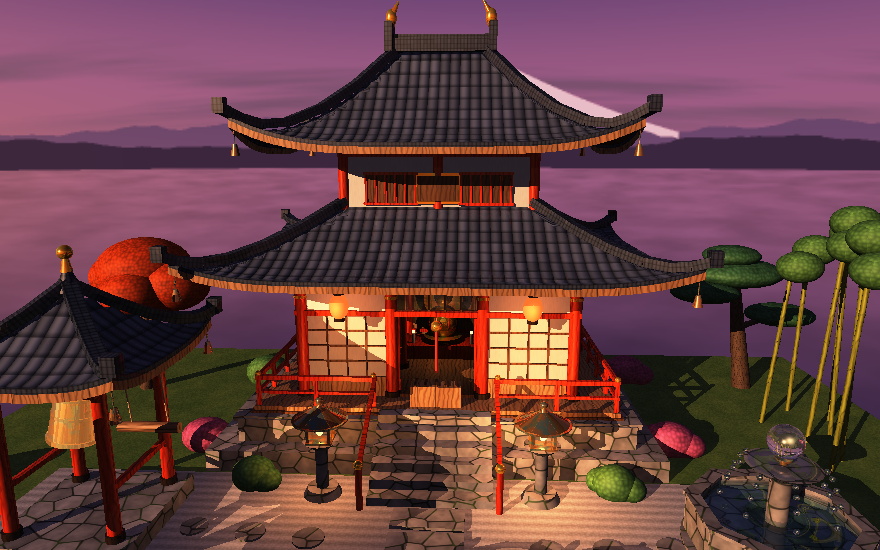
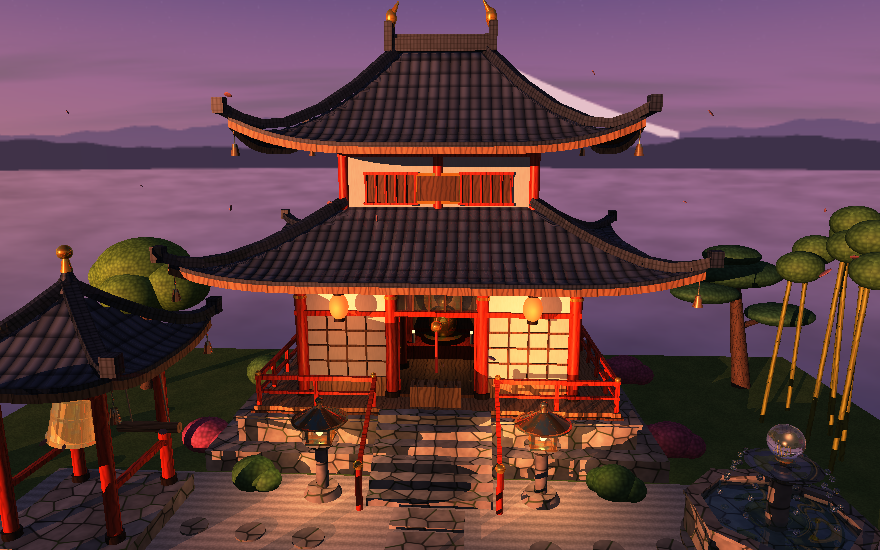
README y capturas de estaciones y ciclo de dia y noche

Changed region(s): [[0.0, 0.3709, 1.0, 1.0], [0.2148, 0.1545, 0.7057, 0.4018], [0.7057, 0.2164, 0.7364, 0.2473]]

diff --git a/README.md b/README.md
@@ -1,7 +1,8 @@
 # Diorama interactivo: templo japonés con raytracing
 
-Diorama 3D de un jardín japonés al atardecer con un templo de dos niveles
-como punto focal, renderizado **con un raytracer propio escrito en Rust**.
+Diorama 3D de un jardín japonés con un templo de dos niveles como punto
+focal, con **ciclo de día y noche** y **las cuatro estaciones**,
+renderizado **con un raytracer propio escrito en Rust**.
 [raylib](https://www.raylib.com/) solo se usa para abrir la ventana, leer
 el teclado/mouse y leer/guardar imágenes PNG: la intersección de rayos,
 materiales, texturas, luces, sombras, reflexión, refracción y skybox
@@ -21,8 +22,9 @@ están implementados a mano.
 cargo run --release
 ```
 
-La primera vez se generan las texturas (`assets/textures`) y el skybox
-(`assets/skybox`) si no existen (tarda unos segundos). Para regenerarlos:
+La primera vez se generan las texturas (`assets/textures`) y los 4
+skyboxes (`assets/skybox`) si no existen (tarda unos 10 segundos). Para
+regenerarlos:
 
 ```
 cargo run --release --bin generar_texturas
@@ -31,11 +33,13 @@ cargo run --release --bin generar_texturas
 También hay un renderizador sin ventana, útil para sacar imágenes:
 
 ```
-cargo run --release --bin captura -- <vista 1-5> <etapa 0-4> <ancho> <alto> <archivo.png>
+cargo run --release --bin captura -- <vista 1-5> <etapa 0-4> <ancho> <alto> <archivo.png> [estacion 0-3] [hora]
 ```
 
-Y pruebas de la matemática (Snell, reflexión interna total, rotaciones) y
-de la progresión de interacciones:
+(`estacion`: 0 primavera, 1 verano, 2 otoño, 3 invierno; `hora` de 0 a 24.)
+
+Y pruebas de la matemática (Snell, reflexión interna total, rotaciones),
+de la progresión de interacciones y del recorrido del sol:
 
 ```
 cargo test --release
@@ -61,34 +65,69 @@ cargo test --release
 | Interactuar con el objeto bajo el mouse | clic izquierdo (sin arrastrar) |
 | Interactuar con el objeto en el centro (mira) | `E` |
 | Campana / linternas / fuente / puerta | `B` / `L` / `F` / `T` |
+| Cambiar de estación | `C` |
+| Pausar / reanudar el ciclo de día y noche | `N` |
+| Atrasar / adelantar la hora (mantener) | `,` / `.` |
 | Vistas predefinidas | `1` general, `2` templo, `3` estanque, `4` techo, `5` patio |
 | Reiniciar cámara | `R` |
 | Captura de pantalla (`captura.png`) | `P` |
 | Mostrar/ocultar ayuda | `H` |
 
-Al pasar el mouse sobre un objeto interactivo aparece su nombre (y si
-todavía está bloqueado).
+Al pasar el mouse sobre un objeto interactivo aparece su nombre.
 
-## Recorrido (progresión)
+## Interacciones
 
-Cada interacción se **desbloquea al completar la anterior**; una vez
-desbloqueada se puede usar libremente. El HUD muestra el objetivo actual.
-
-```
-Explorar el jardín → tocar la CAMPANA (B)
-  → encender las LINTERNAS (L)
-    → seguir el camino y activar la FUENTE (F)
-      → abrir la PUERTA del templo (T) y ver el altar
-```
+Todas las interacciones están disponibles desde el inicio y se pueden
+usar en cualquier orden y las veces que se quiera.
 
 | Interacción | Qué pasa |
 |---|---|
-| 🔔 Campana | El mazo de madera se acerca y golpea; la campana oscila alrededor de su punto de suspensión (oscilación amortiguada) y el bronce brilla y se apaga de a poco. |
-| 🏮 Linternas | Las 4 linternas de piedra encienden su llama (material emisivo, visible refractada a través del vidrio) y las 2 linternas de papel del alero se iluminan. Cada una agrega una luz puntual cálida que ilumina el entorno. |
-| ⛲ Fuente | El nivel del agua sube, aparecen ondas circulares animadas (perturbación de la normal) y chorros de gotas que caen del cuenco superior. Con más agua se ven mejor las monedas refractadas en el fondo. |
-| 🚪 Puerta | Las dos hojas giran sobre sus bisagras hacia adentro y dejan ver el altar dorado iluminado por velas. |
+| Campana | El mazo de madera se acerca y golpea; la campana oscila alrededor de su punto de suspensión (oscilación amortiguada) y el bronce brilla y se apaga de a poco. |
+| Linternas | Las 4 linternas de piedra encienden su llama (material emisivo, visible refractada a través del vidrio) y las 2 linternas de papel del alero se iluminan. Cada una agrega una luz puntual cálida que ilumina el entorno. |
+| Fuente | El nivel del agua sube, aparecen ondas circulares animadas (perturbación de la normal) y chorros de gotas que caen del cuenco superior. Con más agua se ven mejor las monedas refractadas en el fondo. |
+| Puerta | Las dos hojas giran sobre sus bisagras hacia adentro y dejan ver el altar dorado iluminado por velas. |
 
 ![Todo activo](capturas/06_todo_activo.png)
+
+## Estaciones y ciclo de día y noche
+
+![Las cuatro estaciones](capturas/07_estaciones.png)
+
+**Día y noche** (`src/ambiente.rs`). Con `N` el tiempo avanza (un día
+dura 2 minutos) y con `,` / `.` se mueve la hora a mano. El HUD muestra la
+estación y la hora.
+
+- El **sol** recorre un arco real: sale detrás del templo (del lado del
+  monte Fuji) a las 6:00, pasa por delante del templo al mediodía y se
+  pone hacia la entrada del jardín a las 18:00. La **luna** va del lado
+  opuesto.
+- La luz principal es el sol de día y la luna de noche, con su color
+  (blanco al mediodía, naranja al atardecer, azulado a la luz de luna) y
+  sus sombras.
+- Hay **4 skyboxes** (amanecer, día, atardecer y noche con estrellas y
+  vía láctea) que se mezclan según la hora. El sol y la luna no están
+  pintados en las imágenes: se dibujan al trazar, en su posición real,
+  así también se reflejan en el agua.
+- La luz ambiente y la exposición cambian con la hora; de noche lucen las
+  linternas, el interior del templo detrás del papel shoji y las
+  luciérnagas.
+
+**Estaciones.** Con `C` se pasa a la siguiente; la escena se reconstruye
+con la paleta de cada una:
+
+| Estación | Cambios |
+|---|---|
+| Primavera | sakura en flor, arces verde claro, azaleas, pétalos que caen y alfombra de pétalos |
+| Verano | follaje verde intenso, hortensias, pasto más verde, luciérnagas de noche |
+| Otoño | arces rojos y sakura anaranjado, pasto seco, hojarasca en el suelo y hojas que caen |
+| Invierno | nieve en techos, suelo, rocas y pinos; árboles sin hojas; estanque congelado (hielo que refleja y refracta); nieve que cae |
+
+El sol sube más en verano que en invierno. Las partículas (pétalos, hojas,
+copos, luciérnagas) se mueven mientras el tiempo avanza.
+
+![Noche de verano](capturas/08_noche_verano.png)
+
+![Estanque congelado](capturas/09_invierno_hielo.png)
 
 ## Técnicas de raytracing
 
@@ -100,7 +139,7 @@ Explorar el jardín → tocar la CAMPANA (B)
   tiene posición, rotación y escala propias; el rayo se lleva a su
   espacio local para intersectarlo.
 - **Iluminación**: ambiente de hemisferio + difusa (Lambert) + especular
-  (Blinn-Phong), sol direccional con **rayos de sombra** (los objetos
+  (Blinn-Phong), sol o luna como luz direccional con **rayos de sombra** (los objetos
   transparentes dejan pasar parte de la luz) y luces puntuales con radio
   de alcance.
 - **Reflexión**: rayo secundario en la dirección `r = d - 2(d·n)n`.
@@ -114,9 +153,10 @@ Explorar el jardín → tocar la CAMPANA (B)
   (techo).
 - **Relieve**: perturbación de la normal para las tejas y para las
   ondas del agua (estanque y fuente).
-- **Skybox**: cubemap de 6 imágenes (`assets/skybox`), atardecer con
-  sol, nubes, estrellas, montañas y el monte Fuji detrás del templo. La
-  dirección del sol del cielo es la misma que la de la luz principal.
+- **Skybox**: 4 cubemaps de 6 imágenes (`assets/skybox/<momento>`) con
+  nubes, estrellas, montañas y el monte Fuji detrás del templo, mezclados
+  según la hora, más el sol y la luna dibujados en su dirección real (la
+  misma que la de la luz principal).
 
 ### Materiales principales
 
@@ -132,8 +172,9 @@ Cada material tiene textura propia y parámetros propios (`src/material.rs`):
 
 Variantes de apoyo: laca bermellón y negra, madera oscura, oro, tejas
 (`roof_tiles.png`), yeso y papel shoji translúcido (`paper.png`), pasto,
-grava rastrillada, corteza, follaje (pino, arce, sakura, azalea), koi,
-llama emisiva.
+grava rastrillada, corteza, follaje (pino, arce, sakura, azalea,
+hortensia), koi, llama emisiva, luciérnaga emisiva y, en invierno,
+**nieve** (`snow.png`) y **hielo** (`ice.png`, transparencia 0.62, IOR 1.31).
 
 ![Estanque](capturas/03_estanque_reflejos.png)
 
@@ -190,13 +231,15 @@ puente dando profundidad. La vegetación queda en los bordes.
 - Render en paralelo por bloques de filas (`std::thread::scope`, sin
   crates extra).
 - **Resolución progresiva**: 320×200 mientras la cámara se mueve o hay
-  animaciones grandes, 512×320 mientras solo se anima el agua y 880×550
-  cuando todo está quieto (se dibuja una vez y se reutiliza).
+  animaciones grandes, 512×320 mientras solo se anima el agua o avanza el
+  ciclo de día y noche, y 880×550 cuando todo está quieto (se dibuja una
+  vez y se reutiliza).
 - La escena estática (~6500 primitivas, la mayoría triángulos del techo)
-  se arma una sola vez; solo se reconstruye la parte dinámica (~80
-  objetos).
+  se arma al arrancar y al cambiar de estación; en cada cambio de estado
+  solo se reconstruye la parte dinámica (~80 a 140 objetos con las
+  partículas).
 - En un procesador de 12 hilos lógicos: ~110–330 ms la imagen en alta,
-  y ~20–55 ms la previa (320×200).
+  y ~20–60 ms la previa (320×200).
 
 ## Estructura
 
@@ -209,10 +252,11 @@ src/
 ├── bvh.rs             BVH: impacto más cercano y rayos de sombra
 ├── material.rs        materiales
 ├── textura.rs         carga y muestreo de texturas
-├── skybox.rs          cubemap y dirección del sol
+├── skybox.rs          cubemaps del cielo
+├── ambiente.rs        estaciones, recorrido del sol, luz según la hora
 ├── camara.rs          cámara orbital, vistas predefinidas
 ├── render.rs          trazado recursivo, luces, reflexión, refracción
-├── interaccion.rs     estado, progresión y animaciones
+├── interaccion.rs     estado de las interacciones y animaciones
 ├── ruido.rs           ruido procedural (para generar assets)
 ├── generador.rs       genera texturas y skybox en PNG
 ├── escena/
@@ -220,12 +264,13 @@ src/
 │   ├── templo.rs      el templo
 │   ├── techo.rs       generador de techos curvos
 │   └── jardin.rs      terreno, estanque, puente, torii, campanario,
-│                      fuente, linternas, vegetación
+│                      fuente, linternas, vegetación, partículas
 └── bin/
     ├── generar_texturas.rs
     └── captura.rs
 assets/
 ├── textures/          wood, stone, metal, water, glass, roof_tiles,
-│                      paper, leaves, grass, gravel, bark (.png)
-└── skybox/            px, nx, py, ny, pz, nz (.png)
+│                      paper, leaves, grass, gravel, bark, snow, ice (.png)
+└── skybox/            amanecer/, dia/, atardecer/, noche/
+                       cada una con px, nx, py, ny, pz, nz (.png)
 ```
